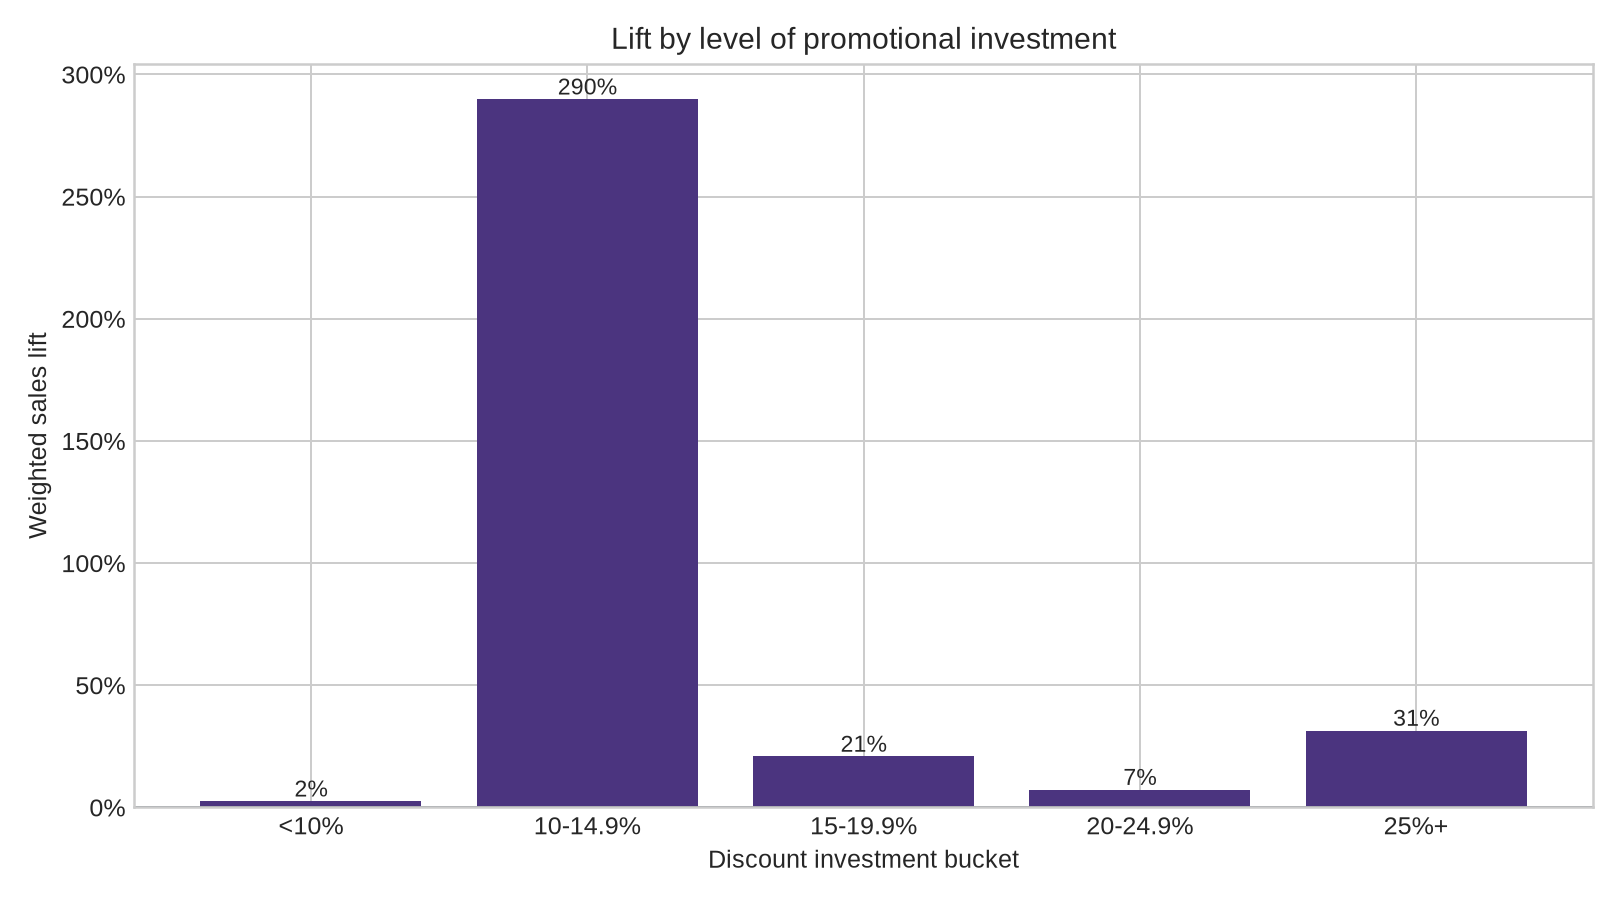
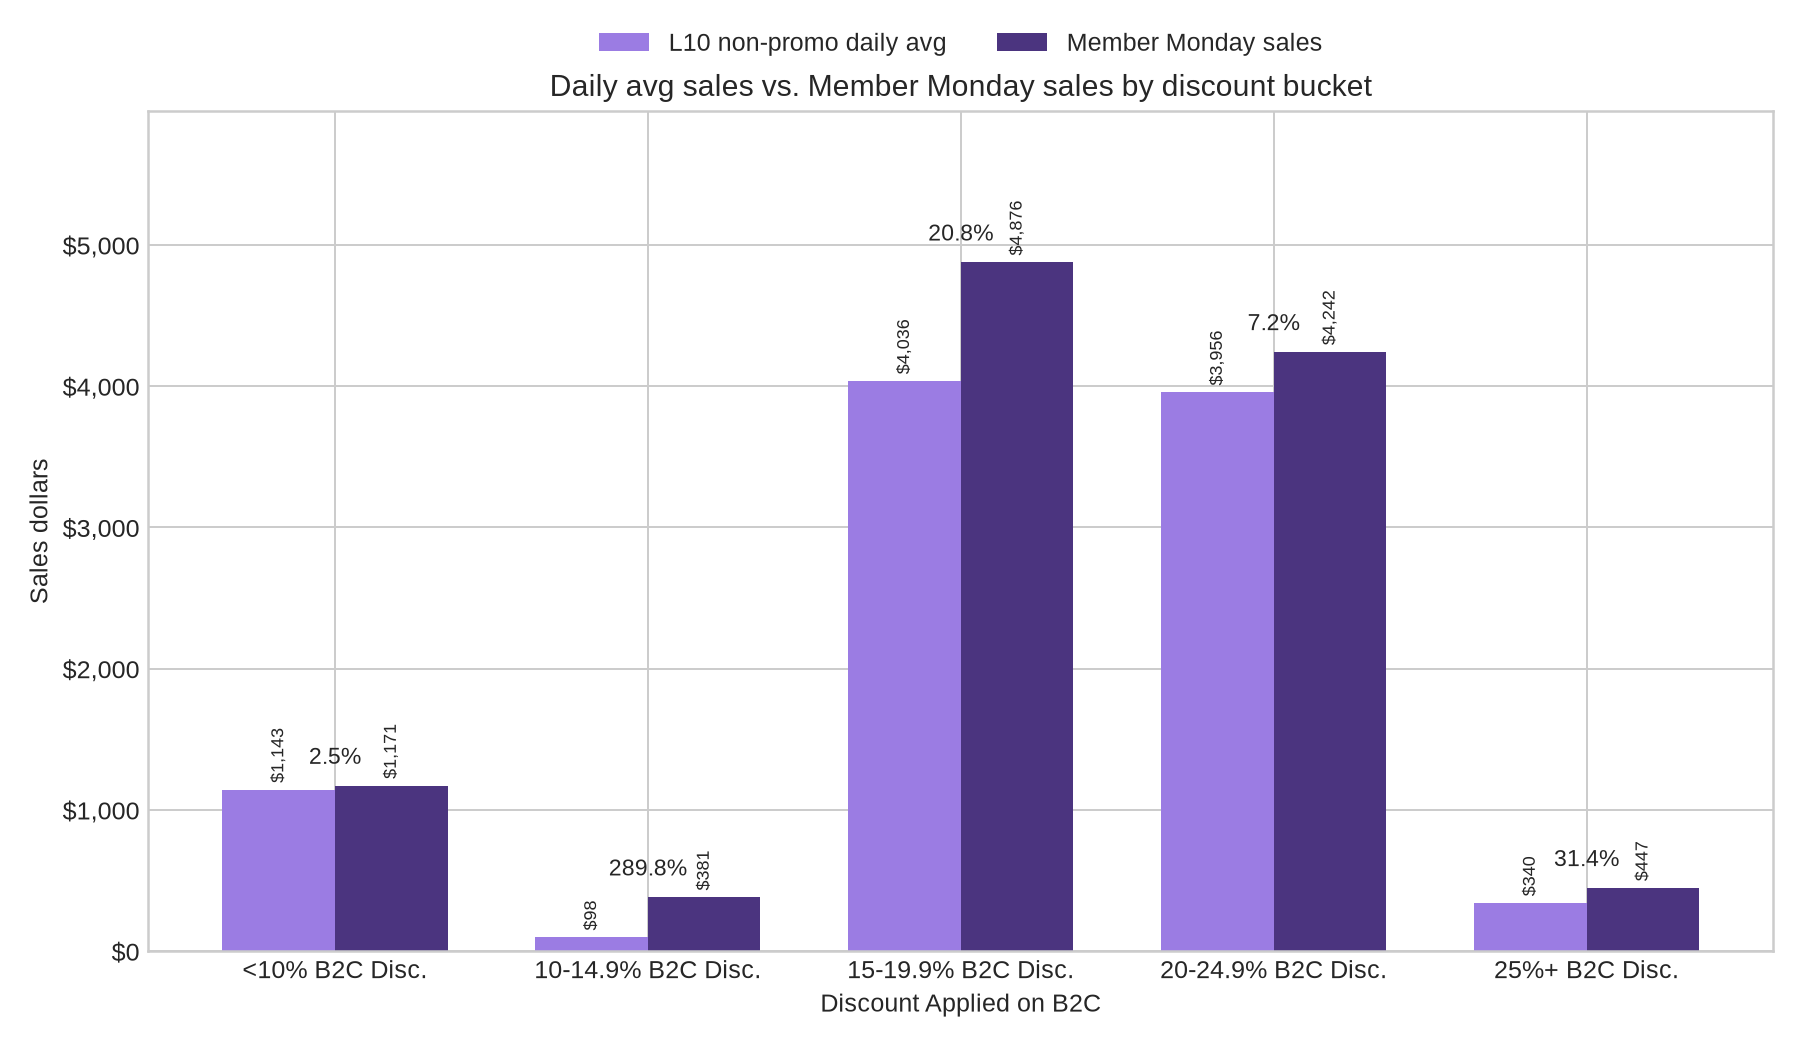
Compare bucket sales in discount chart

diff --git a/analysis/member_monday/build_case_study.py b/analysis/member_monday/build_case_study.py
@@ -274,55 +274,37 @@ def build_discount_buckets(df: pd.DataFrame) -> pd.DataFrame:
 
 
 def save_chart_class_sales(class_summary: pd.DataFrame, out: Path) -> None:
-    plot_df = class_summary.sort_values("member_monday_sales", ascending=False)
-    x_positions = list(range(len(plot_df)))
-    width = 0.36
-    fig, ax = plt.subplots(figsize=(10.5, 5.8))
-    baseline_bars = ax.bar(
-        [idx - width / 2 for idx in x_positions],
+    plot_df = class_summary.sort_values("member_monday_sales")
+    y = range(len(plot_df))
+    fig, ax = plt.subplots(figsize=(10, 5.5))
+    ax.barh(
+        [idx - 0.18 for idx in y],
         plot_df["l10_non_promo_daily_avg"],
-        width=width,
+        height=0.35,
         label="L10 non-promo daily avg",
-        color="#9b7ce3",
+        color="#9aa6b2",
     )
-    member_monday_bars = ax.bar(
-        [idx + width / 2 for idx in x_positions],
+    ax.barh(
+        [idx + 0.18 for idx in y],
         plot_df["member_monday_sales"],
-        width=width,
+        height=0.35,
         label="Member Monday sales",
-        color="#4b347f",
+        color="#2f6fed",
     )
-    ax.set_xticks(x_positions, plot_df["class_name"], rotation=15, ha="right")
-    ax.set_xlabel("Class")
-    ax.set_ylabel("Sales dollars")
-    ax.set_title("Daily avg sales vs. Member Monday sales by class")
-    ax.yaxis.set_major_formatter(lambda y, _pos: f"${y:,.0f}")
-    ax.legend(loc="upper center", bbox_to_anchor=(0.5, 1.12), ncol=2, frameon=False)
+    ax.set_yticks(list(y), plot_df["class_name"])
+    ax.set_xlabel("Sales dollars")
+    ax.set_title("Member Monday sales vs. recent non-promo daily average by class")
+    ax.xaxis.set_major_formatter(lambda x, _pos: f"${x:,.0f}")
+    ax.legend(loc="lower right")
     for idx, row in enumerate(plot_df.itertuples()):
-        y_value = max(row.member_monday_sales, row.l10_non_promo_daily_avg)
+        lift_label = fmt_pct(row.weighted_lift_pct)
         ax.text(
-            idx,
-            y_value + max(plot_df["member_monday_sales"]) * 0.025,
-            fmt_pct(row.weighted_lift_pct),
-            ha="center",
-            va="bottom",
+            row.member_monday_sales + max(plot_df["member_monday_sales"]) * 0.01,
+            idx + 0.18,
+            lift_label,
+            va="center",
             fontsize=9,
         )
-    for bars in [baseline_bars, member_monday_bars]:
-        for bar in bars:
-            height = bar.get_height()
-            if height <= 0:
-                continue
-            ax.text(
-                bar.get_x() + bar.get_width() / 2,
-                height + max(plot_df["member_monday_sales"]) * 0.01,
-                fmt_currency(height),
-                ha="center",
-                va="bottom",
-                fontsize=7,
-                rotation=90,
-            )
-    ax.set_ylim(0, max(plot_df["member_monday_sales"].max(), plot_df["l10_non_promo_daily_avg"].max()) * 1.22)
     fig.tight_layout()
     fig.savefig(out, dpi=180)
     plt.close(fig)
@@ -413,26 +395,61 @@ def save_chart_supplier_scatter(supplier_summary: pd.DataFrame, out: Path) -> No
 
 def save_chart_discount_buckets(bucket_summary: pd.DataFrame, out: Path) -> None:
     plot_df = bucket_summary.copy()
-    fig, ax = plt.subplots(figsize=(9, 5))
-    bars = ax.bar(
-        plot_df["discount_bucket"].astype(str),
-        plot_df["weighted_lift_pct"] * 100,
+    x_positions = list(range(len(plot_df)))
+    width = 0.36
+    fig, ax = plt.subplots(figsize=(10, 5.8))
+    baseline_bars = ax.bar(
+        [idx - width / 2 for idx in x_positions],
+        plot_df["l10_non_promo_daily_avg"],
+        width=width,
+        label="L10 non-promo daily avg",
+        color="#9b7ce3",
+    )
+    member_monday_bars = ax.bar(
+        [idx + width / 2 for idx in x_positions],
+        plot_df["member_monday_sales"],
+        width=width,
+        label="Member Monday sales",
         color="#4b347f",
     )
-    ax.axhline(0, color="#59636e", linewidth=1)
-    ax.set_xlabel("Discount investment bucket")
-    ax.set_ylabel("Weighted sales lift")
-    ax.set_title("Lift by level of promotional investment")
-    ax.yaxis.set_major_formatter(lambda y, _pos: f"{y:.0f}%")
-    for bar, row in zip(bars, plot_df.itertuples(), strict=True):
+    ax.set_xticks(
+        x_positions,
+        [f"{bucket} B2C Disc." for bucket in plot_df["discount_bucket"].astype(str)],
+    )
+    ax.set_xlabel("Discount Applied on B2C")
+    ax.set_ylabel("Sales dollars")
+    ax.set_title("Daily avg sales vs. Member Monday sales by discount bucket")
+    ax.yaxis.set_major_formatter(lambda y, _pos: f"${y:,.0f}")
+    ax.legend(loc="upper center", bbox_to_anchor=(0.5, 1.12), ncol=2, frameon=False)
+    max_sales = max(
+        plot_df["member_monday_sales"].max(),
+        plot_df["l10_non_promo_daily_avg"].max(),
+    )
+    for idx, row in enumerate(plot_df.itertuples()):
         ax.text(
-            bar.get_x() + bar.get_width() / 2,
-            bar.get_height(),
-            f"{row.weighted_lift_pct * 100:.0f}%",
+            idx,
+            max(row.member_monday_sales, row.l10_non_promo_daily_avg)
+            + max_sales * 0.025,
+            fmt_pct(row.weighted_lift_pct),
             ha="center",
-            va="bottom" if row.weighted_lift_pct >= 0 else "top",
+            va="bottom",
             fontsize=9,
         )
+    for bars in [baseline_bars, member_monday_bars]:
+        for bar in bars:
+            height = bar.get_height()
+            if height <= 0:
+                continue
+            ax.text(
+                bar.get_x() + bar.get_width() / 2,
+                height + max_sales * 0.01,
+                fmt_currency(height),
+                ha="center",
+                va="bottom",
+                fontsize=7,
+                rotation=90,
+            )
+    ax.set_ylim(0, max_sales * 1.22)
     fig.tight_layout()
     fig.savefig(out, dpi=180)
     plt.close(fig)
@@ -708,8 +725,6 @@ Member Monday generated **{fmt_currency_2(sales)}** in participating SKU sales v
 
 ![Class sales lift](charts/class_sales_lift.png)
 
-In the class chart, light purple bars show the recent non-promo daily average and dark purple bars show Member Monday sales.
-
 ## Class-level insights
 
 {markdown_table(class_table, [
@@ -731,6 +746,8 @@ In the class chart, light purple bars show the recent non-promo daily average an
 - **Use the active-SKU rate as a merchandising filter:** classes with many participating SKUs but fewer active SKUs should be reviewed for search placement, inventory, and item attractiveness before simply increasing discount depth.
 
 ![Class/investment lift buckets](charts/discount_bucket_lift.png)
+
+In the discount-bucket chart, light purple bars show the recent non-promo daily average and dark purple bars show Member Monday sales.
 
 ## Promotional investment vs. lift
 

diff --git a/analysis/member_monday/output/Member_Monday_Loyalty_Lift_Case_Study.md b/analysis/member_monday/output/Member_Monday_Loyalty_Lift_Case_Study.md
@@ -26,8 +26,6 @@ Member Monday generated **$11,116.60** in participating SKU sales versus a recen
 
 ![Class sales lift](charts/class_sales_lift.png)
 
-In the class chart, light purple bars show the recent non-promo daily average and dark purple bars show Member Monday sales.
-
 ## Class-level insights
 
 | class_name                     | sku_count | active_skus | positive_lift_sku_rate | weighted_discount_pct | l10_non_promo_daily_avg | member_monday_sales | incremental_sales | weighted_lift_pct |
@@ -44,6 +42,8 @@ In the class chart, light purple bars show the recent non-promo daily average an
 - **Use the active-SKU rate as a merchandising filter:** classes with many participating SKUs but fewer active SKUs should be reviewed for search placement, inventory, and item attractiveness before simply increasing discount depth.
 
 ![Class/investment lift buckets](charts/discount_bucket_lift.png)
+
+In the discount-bucket chart, light purple bars show the recent non-promo daily average and dark purple bars show Member Monday sales.
 
 ## Promotional investment vs. lift
 
